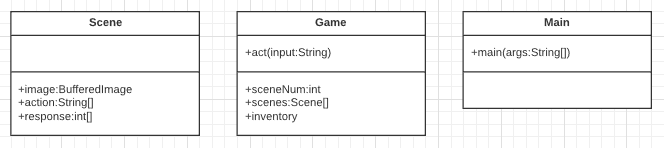
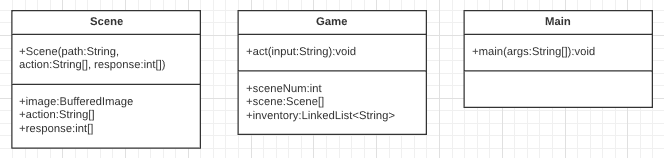
Task 16 Done

Changed region(s): [[0.3012, 0.0541, 1.0, 0.9189], [0.0, 0.0541, 0.3012, 0.9459]]

diff --git a/src/ru/mirea/task16/Game.java b/src/ru/mirea/task16/Game.java
@@ -1,0 +1,71 @@
+package ru.mirea.task16;
+
+import java.util.LinkedList;
+import java.util.Objects;
+
+public class Game
+{
+    public void act(String input)
+    {
+        int resp = 0;
+        for (String i : scene[sceneNum].action)
+        {
+            if (Objects.equals(input, i))
+            {
+                resp = scene[sceneNum].response[resp];
+                break;
+            }
+            resp++;
+        }
+        switch(resp)
+        {
+            case 10000000:
+            {
+                System.out.println("Вы находитесь в первой комнате.");
+                System.out.println("Спереди вы видите проход.\n\n");
+                break;
+            }
+            case 10000001:
+            {
+                System.out.println("Вы находитесь во второй комнате.");
+                System.out.println("Сзади вы видите проход.\n\n");
+                break;
+            }
+            case 20000000:
+            {
+                System.out.println("Вы перешли в первую комнату.\n\n");
+                sceneNum = 1;
+                break;
+            }
+            case 20000001:
+            {
+                System.out.println("Вы перешли во вторую комнату.\n\n");
+                sceneNum = 1;
+                break;
+            }
+            case 30000001:
+            {
+                System.out.println("Вы подобрали камень.\n\n");
+                inventory.add("камень");
+                break;
+            }
+            case 90000000:
+            {
+                for (String i : inventory)
+                {
+                    if (i == "камень")
+                    {
+                        System.out.println("Вы съели камень. Победа!\n\n");
+                        while (true){}
+                    }
+                }
+                System.out.println("Вы не можете найти у себя камень.\n\n");
+                break;
+            }
+        }
+    }
+
+    public int sceneNum = 0;
+    public Scene scene[];
+    public LinkedList<String> inventory = new LinkedList<>();
+}

diff --git a/src/ru/mirea/task16/Main.java b/src/ru/mirea/task16/Main.java
@@ -1,9 +1,53 @@
 package ru.mirea.task16;
+//тест базовых механик, без графики
+import java.io.IOException;
+import java.util.Scanner;
+import java.io.File;
 
 public class Main
 {
-    public static void main(String[] args)
+    public static void main(String[] args) throws IOException
     {
+        int scenes = 2;
 
+        Game G = new Game();
+        Scene[] scene = new Scene[scenes];
+        String[][] action = new String[scenes][];
+        int[][] response = new int[scenes][];
+
+        action[0] = new String[3];
+        action[0][0] = "осмотреться";
+        action[0][1] = "идти вперёд";
+        action[0][2] = "съесть камень";
+        response[0] = new int[3];
+        response[0][0] = 10000000;
+        response[0][1] = 20000001;
+        response[0][2] = 90000000;
+
+        action[1] = new String[4];
+        action[1][0] = "осмотреться";
+        action[1][1] = "идти назад";
+        action[1][2] = "взять камень";
+        action[1][3] = "съесть камень";
+        response[1] = new int[4];
+        response[1][0] = 10000001;
+        response[1][1] = 20000000;
+        response[1][2] = 30000001;
+        response[1][3] = 90000000;
+
+        System.out.println(new File("").getAbsolutePath());
+
+        scene[0] = new Scene("./AMOGUS II/sample.png", action[0], response[0]);
+        scene[1] = new Scene("./AMOGUS II/sample.png", action[1], response[1]);
+        G.scene = scene;
+
+        G.act("осмотреться");
+        Scanner in = new Scanner(System.in);
+        String input;
+        while (true)
+        {
+            input = in.nextLine();
+            G.act(input);
+        }
     }
 }

diff --git a/src/ru/mirea/task8/Task3.java b/src/ru/mirea/task8/Task3.java
@@ -10,7 +10,7 @@ public class Task3
 {
     public static void main(String[] args) throws IOException, InterruptedException
     {
-        BufferedImage image = ImageIO.read(new File("D:\\IntelliJ IDEA Community Edition 2021.2.1\\JavaFirstMirea\\src\\ru\\mirea\\task8\\skin2.png"));
+        BufferedImage image = ImageIO.read(new File("." + (char)(92) + "src" + (char)(92) + "ru" + (char)(92) + "mirea" + (char)(92) + "task8" + (char)(92) + "skin2.png"));
         BufferedImage subImage = image.getSubimage(0, 0, 1, 1);
         JFrame frame = new JFrame("Task3");
         frame.setVisible(true);

diff --git a/src/ru/mirea/task16/Scene.java b/src/ru/mirea/task16/Scene.java
@@ -1,0 +1,20 @@
+package ru.mirea.task16;
+
+import javax.imageio.ImageIO;
+import java.awt.image.BufferedImage;
+import java.io.File;
+import java.io.IOException;
+
+public class Scene
+{
+    public Scene(String path, String[] action, int[] response) throws IOException
+    {
+        image = ImageIO.read(new File(path));
+        this.action = action;
+        this.response = response;
+    }
+
+    public BufferedImage image;
+    public String[] action;
+    public int[] response;
+}
